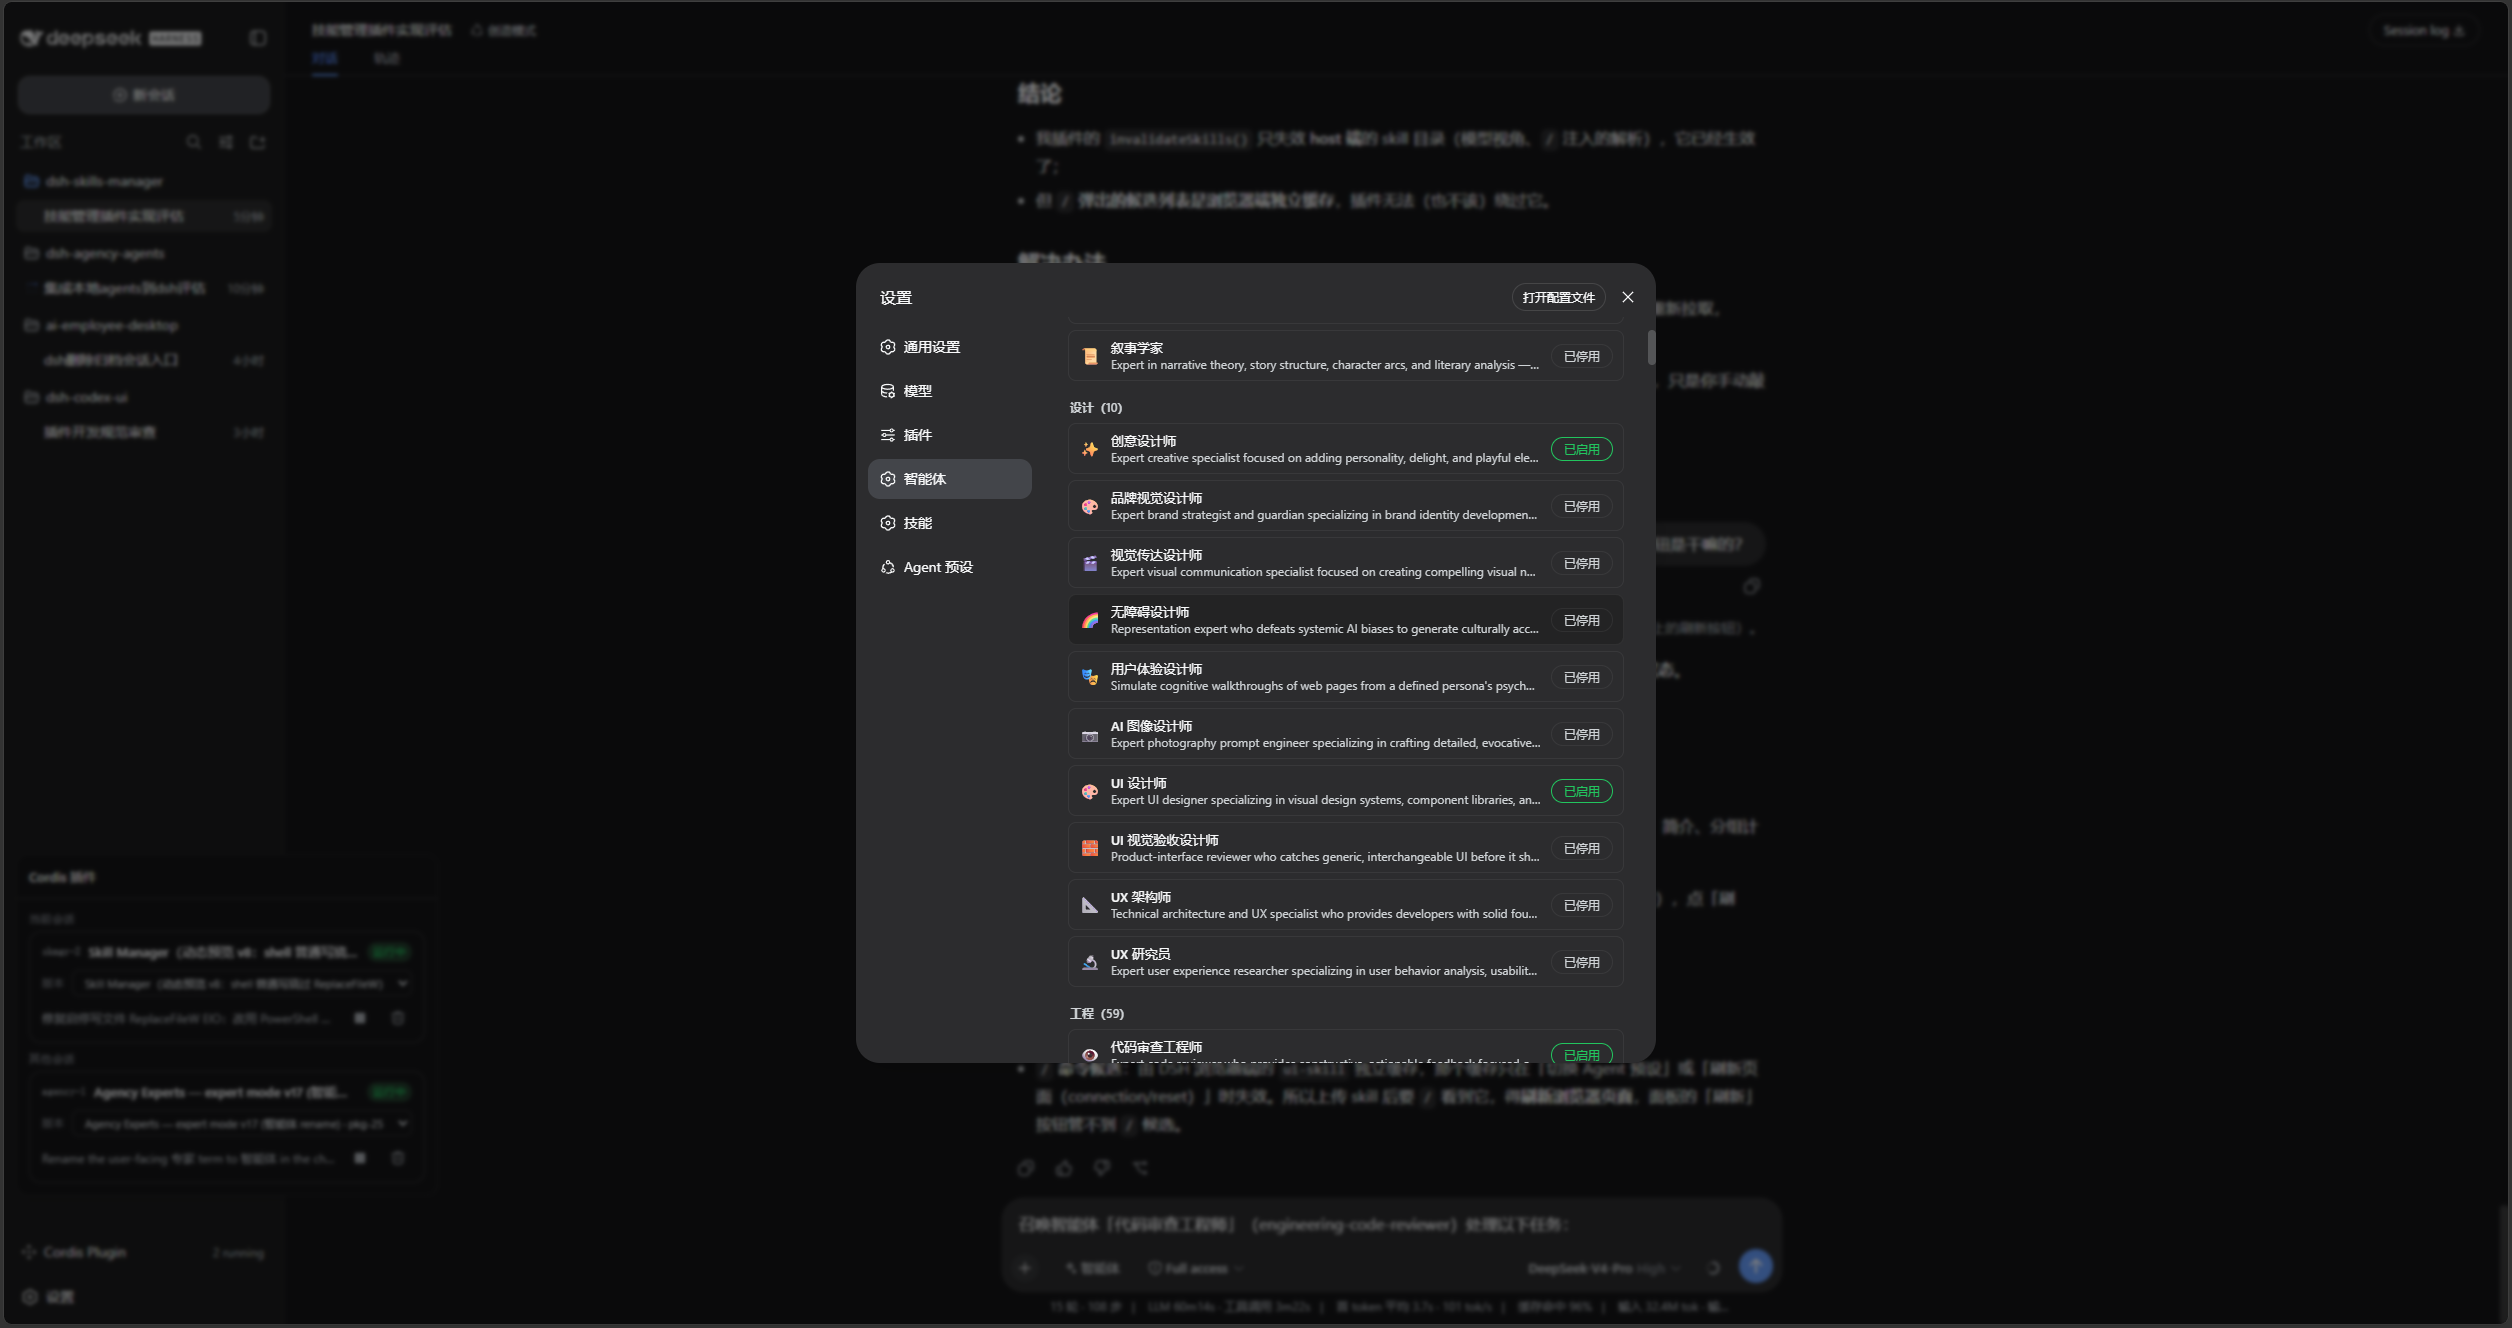
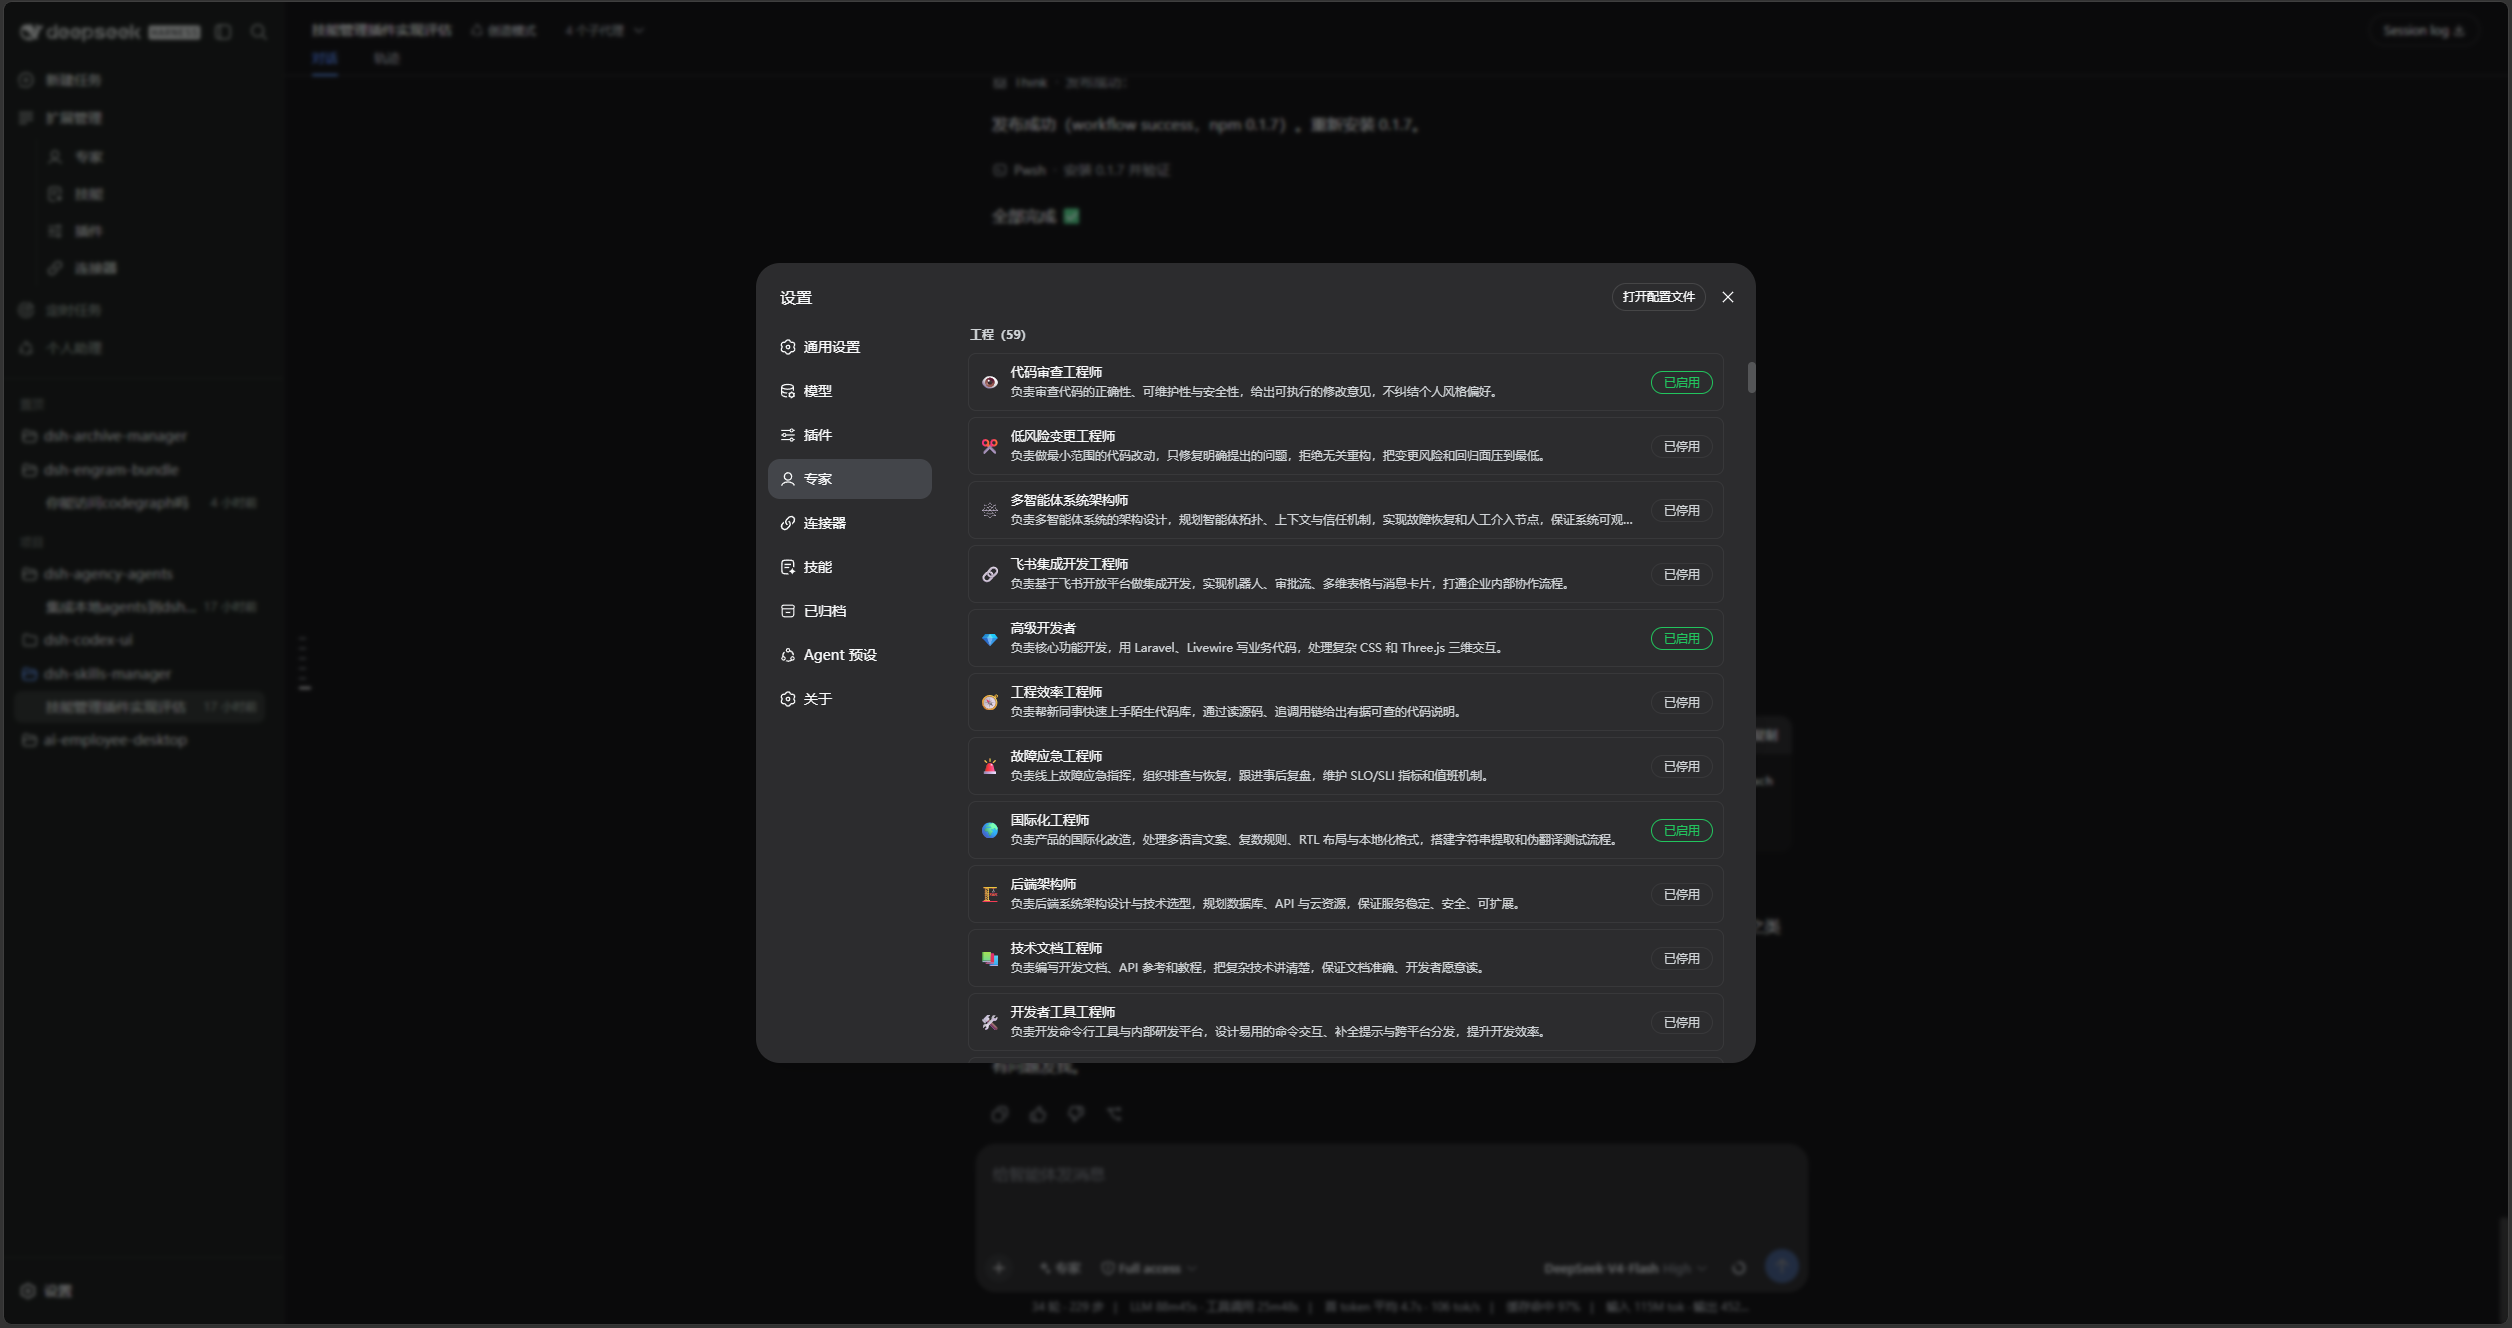
docs: 更新专家面板与召唤截图

diff --git a/README.md b/README.md
@@ -18,8 +18,8 @@
 
 ## Features
 
-- Browse, enable, and disable bundled experts across 17 divisions in **Settings → Agents**.
-- Summon enabled experts by name or slug from the composer’s **Agent** mode.
+- Browse, enable, and disable bundled experts across 17 divisions in **Settings → Experts**.
+- Summon enabled experts by name or slug from the composer's **Experts** picker.
 - Use `list_experts` to discover experts and `summon_expert` to start a one-shot specialist subagent.
 - Use 271 bundled personas immediately, or connect a separately synchronized expert directory.
 
@@ -27,13 +27,17 @@ The parent session keeps task context, judgment, and the final answer. Expert ch
 
 ## Screenshots
 
-Enable the experts you need in **Settings → Agents**:
+Enable the experts you need in **Settings → Experts**:
 
-![DSH Agents panel](https://raw.githubusercontent.com/MichengAI/dsh-agency-agents/main/assets/screenshots/agent-roster.png)
+![DSH Experts panel](https://raw.githubusercontent.com/MichengAI/dsh-agency-agents/main/assets/screenshots/agent-roster.png)
 
-Then switch the composer to **Agent** mode and summon an expert by name and slug:
+Open the composer's **Experts** picker and choose an enabled expert:
 
-![Summoning an agent from the composer](https://raw.githubusercontent.com/MichengAI/dsh-agency-agents/main/assets/screenshots/summon-prompt.png)
+![Experts picker](https://raw.githubusercontent.com/MichengAI/dsh-agency-agents/main/assets/screenshots/expert-picker.png)
+
+Then write the complete task with the expert name and slug:
+
+![Summoning an expert from the composer](https://raw.githubusercontent.com/MichengAI/dsh-agency-agents/main/assets/screenshots/summon-prompt.png)
 
 ## Prerequisites
 
@@ -78,12 +82,12 @@ Restart DSH Web and hard-refresh the browser. `dsh plugin ... add .` reads the p
 
 ## Usage
 
-1. Open **Settings → Agents** and enable the needed experts.
-2. Select **Agent** mode in the composer.
+1. Open **Settings → Experts** and enable the needed experts.
+2. Open the composer's **Experts** picker and choose an enabled expert.
 3. Name the expert and slug, then provide the complete task.
 
 ```text
-Summon the "Code Review Engineer" agent (engineering-code-reviewer) for this task:
+Summon the "Code Review Engineer" expert (engineering-code-reviewer) for this task:
 Review the changes in the current workspace and list reproducible issues by severity.
 ```
 

diff --git a/README.zh-CN.md b/README.zh-CN.md
@@ -18,8 +18,8 @@
 
 ## 功能概览
 
-- 在「设置 → 智能体」中按 17 个分区浏览、启用或停用内置专家。
-- 在输入框的「智能体」模式中按名称或 slug 召唤已启用的专家处理完整任务。
+- 在「设置 → 专家」中按 17 个分区浏览、启用或停用内置专家。
+- 在输入框的「专家」中按名称或 slug 召唤已启用的专家处理完整任务。
 - 提供 `list_experts` 与 `summon_expert` 工具，分别用于发现专家和启动一次性子代理。
 - 内置 271 份 persona，无需额外下载；也可接入自行同步的专家目录。
 
@@ -27,13 +27,17 @@
 
 ## 界面预览
 
-在「设置 → 智能体」中启用需要的专家：
+在「设置 → 专家」中启用需要的专家：
 
-![DSH 智能体面板](https://raw.githubusercontent.com/MichengAI/dsh-agency-agents/main/assets/screenshots/agent-roster.png)
+![DSH 专家面板](https://raw.githubusercontent.com/MichengAI/dsh-agency-agents/main/assets/screenshots/agent-roster.png)
 
-再把输入框切到「智能体」模式，按名称和 slug 召唤专家：
+在输入框点击「专家」，选择已启用的专家：
 
-![召唤智能体的输入方式](https://raw.githubusercontent.com/MichengAI/dsh-agency-agents/main/assets/screenshots/summon-prompt.png)
+![专家选择器](https://raw.githubusercontent.com/MichengAI/dsh-agency-agents/main/assets/screenshots/expert-picker.png)
+
+再用名称和 slug 写出完整任务：
+
+![召唤专家的输入方式](https://raw.githubusercontent.com/MichengAI/dsh-agency-agents/main/assets/screenshots/summon-prompt.png)
 
 ## 前置条件
 
@@ -78,12 +82,12 @@ dsh --profile web --dump-config
 
 ## 使用
 
-1. 打开「设置 → 智能体」，启用需要的专家。
-2. 在对话输入框选择「智能体」模式。
+1. 打开「设置 → 专家」，启用需要的专家。
+2. 在对话输入框点击「专家」，选择已启用的专家。
 3. 用名称和 slug 明确指定专家，并给出完整任务。例如：
 
 ```text
-召唤智能体「代码审查工程师」（engineering-code-reviewer）处理以下任务：
+召唤专家「代码审查工程师」（engineering-code-reviewer）处理以下任务：
 审查当前工作区的改动，按严重程度列出可复现的问题。
 ```
 
